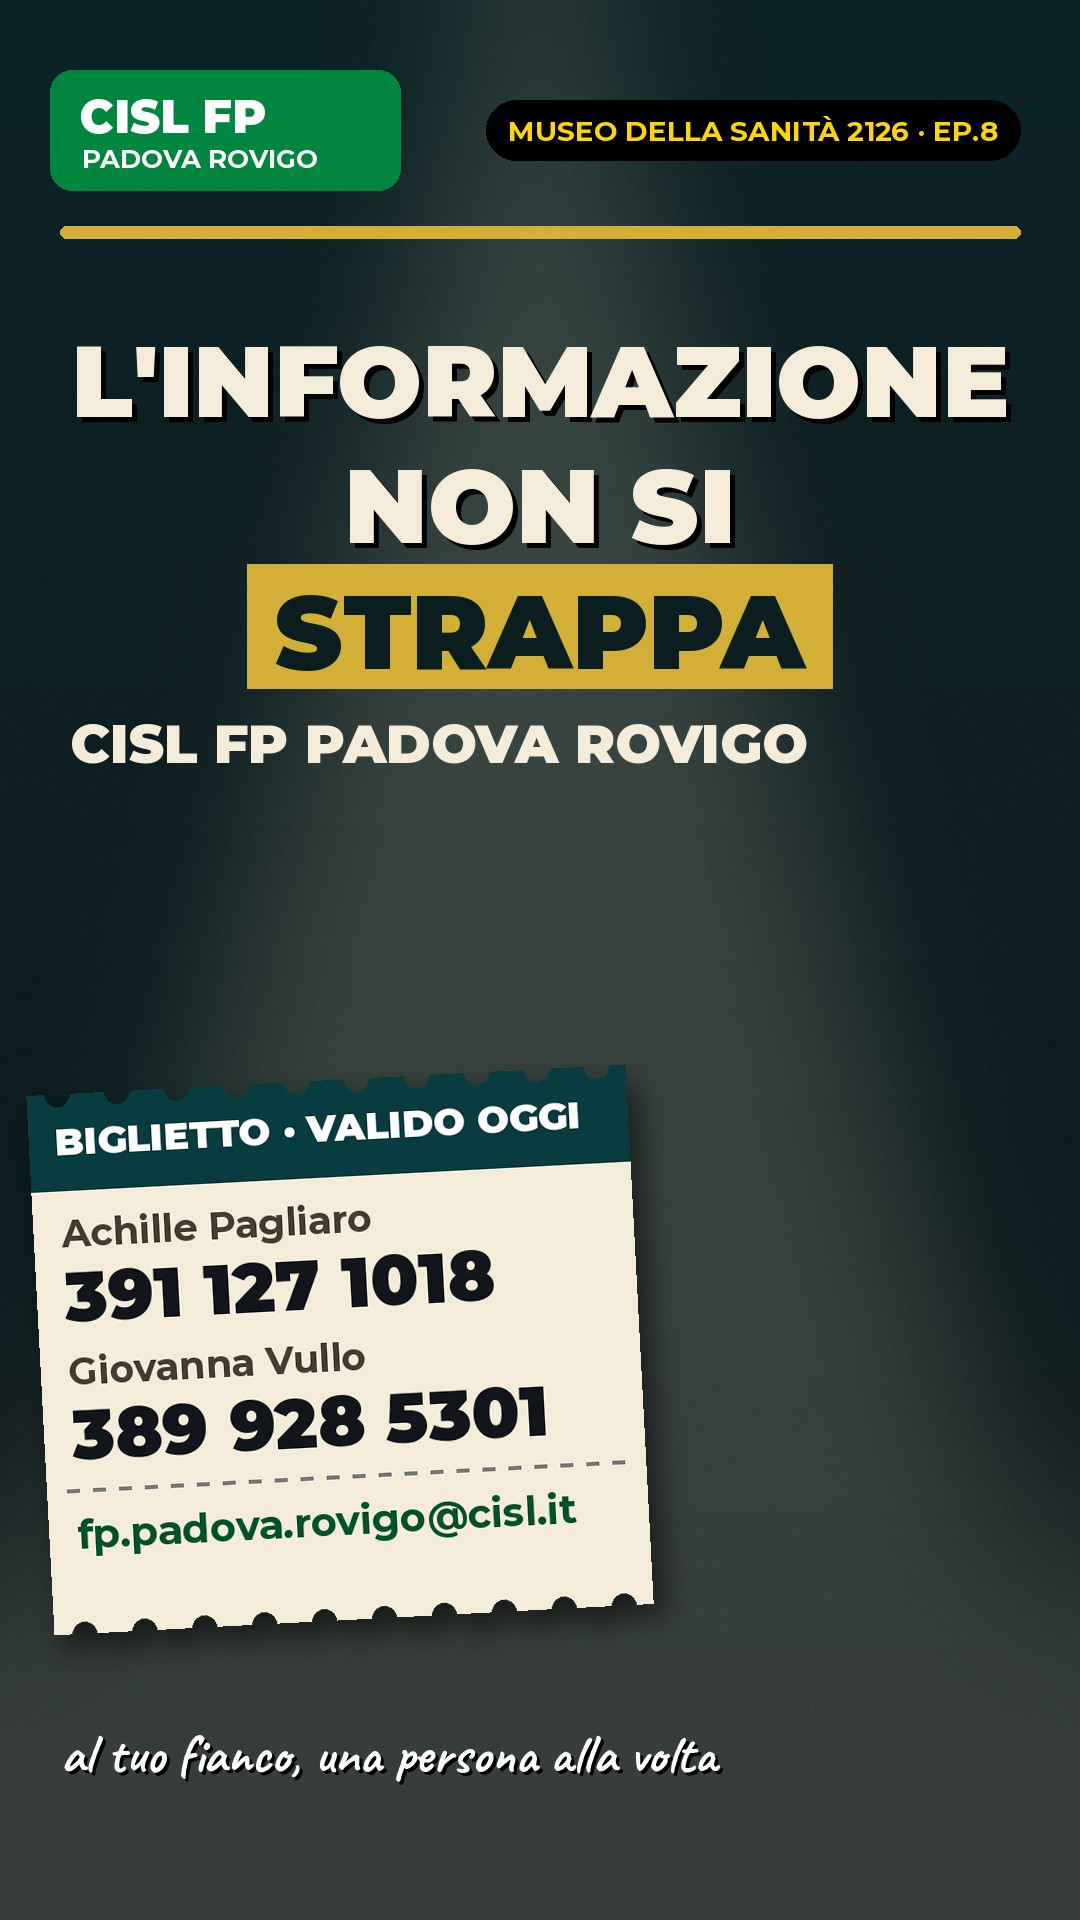
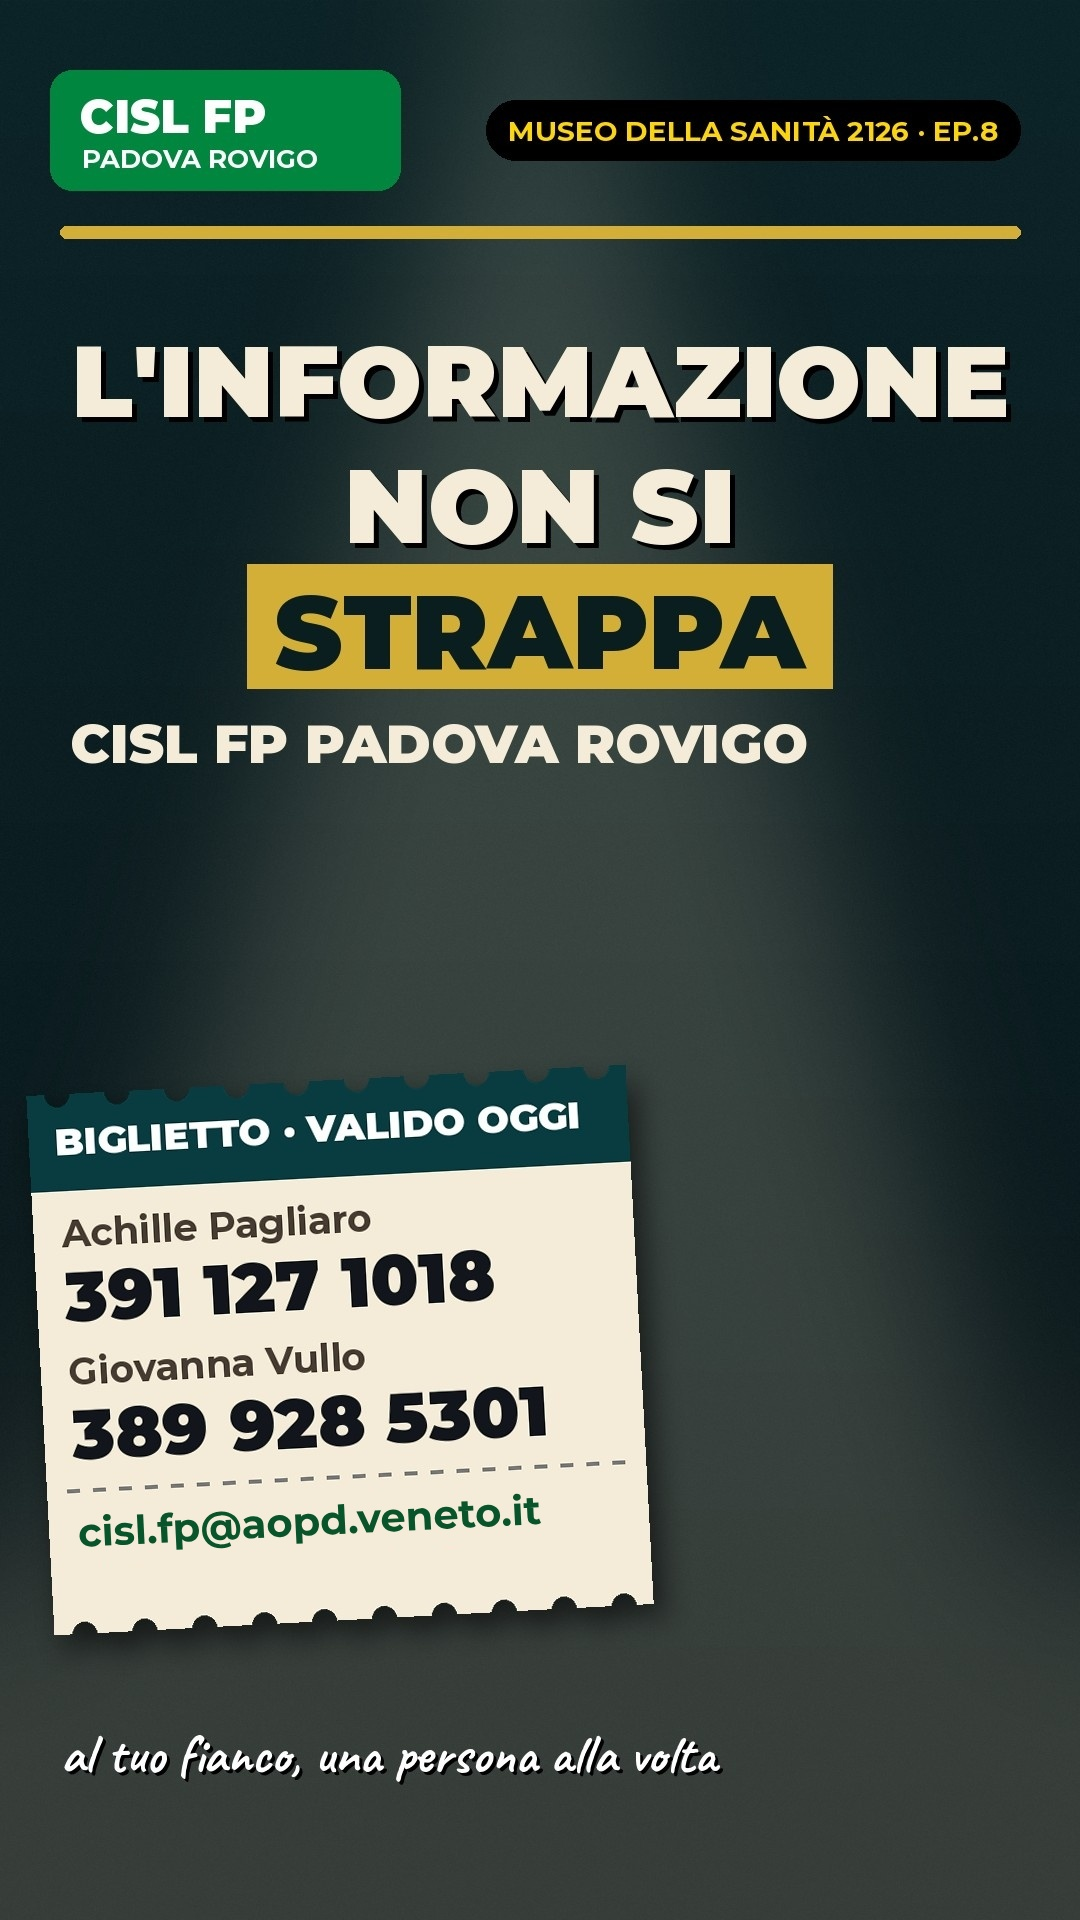
PDRO Trailer e Museo: mail AOUP cisl.fp@aopd.veneto.it su chiusure e testi dei post
Claude-Session: https://claude.ai/code/session_011VcYB1UyftPwdXssPuiLTX

diff --git a/progetti/pdro-trailer-02-il-rientro/TESTO_POST.md b/progetti/pdro-trailer-02-il-rientro/TESTO_POST.md
@@ -10,7 +10,7 @@ Aveva appena smontato dalla notte. Poi, nel silenzio del parcheggio, il telefono
 
 📞 Achille Pagliaro 391 127 1018
 📞 Giovanna Vullo 389 928 5301
-✉ fp.padova.rovigo@cisl.it
+✉ cisl.fp@aopd.veneto.it
 
 Trailer e recensioni di fantasia. I problemi, e le tutele, sono veri.
 

diff --git a/progetti/pdro-trailer-10-uniti-il-film/TESTO_POST.md b/progetti/pdro-trailer-10-uniti-il-film/TESTO_POST.md
@@ -10,7 +10,7 @@ Infermieri, OSS, tecnici, amministrativi, ostetriche. E in mezzo alla scena, un 
 
 📞 Achille Pagliaro 391 127 1018
 📞 Giovanna Vullo 389 928 5301
-✉ fp.padova.rovigo@cisl.it
+✉ cisl.fp@aopd.veneto.it
 
 Trailer e recensioni di fantasia. I problemi, e le tutele, sono veri.
 

diff --git a/progetti/pdro-trailer-03-per-un-pugno-di-ferie/TESTO_POST.md b/progetti/pdro-trailer-03-per-un-pugno-di-ferie/TESTO_POST.md
@@ -8,7 +8,7 @@ Agosto. Mezzogiorno. Un corridoio deserto. Un solo piano ferie. E due colleghi c
 
 📞 Achille Pagliaro 391 127 1018
 📞 Giovanna Vullo 389 928 5301
-✉ fp.padova.rovigo@cisl.it
+✉ cisl.fp@aopd.veneto.it
 
 Trailer e recensioni di fantasia. I problemi, e le tutele, sono veri.
 

diff --git a/progetti/pdro-trailer-04-odissea-nel-reparto/TESTO_POST.md b/progetti/pdro-trailer-04-odissea-nel-reparto/TESTO_POST.md
@@ -8,7 +8,7 @@ Primo giorno. Un pianeta sconosciuto. Sigle incomprensibili, portali che non si 
 
 📞 Achille Pagliaro 391 127 1018
 📞 Giovanna Vullo 389 928 5301
-✉ fp.padova.rovigo@cisl.it
+✉ cisl.fp@aopd.veneto.it
 
 Trailer e recensioni di fantasia. I problemi, e le tutele, sono veri.
 

diff --git a/progetti/pdro-trailer-05-io-te-e-il-part-time/TESTO_POST.md b/progetti/pdro-trailer-05-io-te-e-il-part-time/TESTO_POST.md
@@ -8,7 +8,7 @@ Lei fa i turni. Lui fa i turni. La recita è giovedì alle quattro. E nessuno de
 
 📞 Achille Pagliaro 391 127 1018
 📞 Giovanna Vullo 389 928 5301
-✉ fp.padova.rovigo@cisl.it
+✉ cisl.fp@aopd.veneto.it
 
 Trailer e recensioni di fantasia. I problemi, e le tutele, sono veri.
 

diff --git a/progetti/pdro-trailer-06-organico-zero/TESTO_POST.md b/progetti/pdro-trailer-06-organico-zero/TESTO_POST.md
@@ -8,7 +8,7 @@ Erano già in pochi. Poi una malattia. Poi un pensionamento. Poi qualcuno ha osa
 
 📞 Achille Pagliaro 391 127 1018
 📞 Giovanna Vullo 389 928 5301
-✉ fp.padova.rovigo@cisl.it
+✉ cisl.fp@aopd.veneto.it
 
 Trailer e recensioni di fantasia. I problemi, e le tutele, sono veri.
 

diff --git a/progetti/pdro-trailer-08-il-caso-della-contestazione/TESTO_POST.md b/progetti/pdro-trailer-08-il-caso-della-contestazione/TESTO_POST.md
@@ -8,7 +8,7 @@ Una raccomandata. Un'accusa. Pochi giorni per rispondere. E una domanda: ci vado
 
 📞 Achille Pagliaro 391 127 1018
 📞 Giovanna Vullo 389 928 5301
-✉ fp.padova.rovigo@cisl.it
+✉ cisl.fp@aopd.veneto.it
 
 Trailer e recensioni di fantasia. I problemi, e le tutele, sono veri.
 

diff --git a/progetti/pdro-trailer-09-il-delegato-nel-suo-habitat/TESTO_POST.md b/progetti/pdro-trailer-09-il-delegato-nel-suo-habitat/TESTO_POST.md
@@ -8,7 +8,7 @@ Non fate rumore. Tra le piante dell'atrio, un esemplare adulto di delegato sinda
 
 📞 Achille Pagliaro 391 127 1018
 📞 Giovanna Vullo 389 928 5301
-✉ fp.padova.rovigo@cisl.it
+✉ cisl.fp@aopd.veneto.it
 
 Trailer e recensioni di fantasia. I problemi, e le tutele, sono veri.
 

diff --git a/progetti/pdro-trailer-07-non-servono-superpoteri/TESTO_POST.md b/progetti/pdro-trailer-07-non-servono-superpoteri/TESTO_POST.md
@@ -10,7 +10,7 @@ Si chiamano delegati. E dietro ognuno c'è una squadra intera.
 
 📞 Achille Pagliaro 391 127 1018
 📞 Giovanna Vullo 389 928 5301
-✉ fp.padova.rovigo@cisl.it
+✉ cisl.fp@aopd.veneto.it
 
 Trailer e recensioni di fantasia. I problemi, e le tutele, sono veri.
 

diff --git a/progetti/pdro-museo-01-il-cartellino-delle-dodici-notti/TESTO_POST.md b/progetti/pdro-museo-01-il-cartellino-delle-dodici-notti/TESTO_POST.md
@@ -8,7 +8,7 @@ Il museo non esiste. Quel cartellino sì. E le regole su riposi e notti ci sono 
 
 📞 Achille Pagliaro 391 127 1018
 📞 Giovanna Vullo 389 928 5301
-✉ fp.padova.rovigo@cisl.it
+✉ cisl.fp@aopd.veneto.it
 
 Video ironico: il museo è inventato, i problemi no.
 

diff --git a/progetti/pdro-museo-04-la-chat-di-reparto/TESTO_POST.md b/progetti/pdro-museo-04-la-chat-di-reparto/TESTO_POST.md
@@ -8,7 +8,7 @@ Il riposo è riposo. La reperibilità è un'altra cosa: deve essere prevista e v
 
 📞 Achille Pagliaro 391 127 1018
 📞 Giovanna Vullo 389 928 5301
-✉ fp.padova.rovigo@cisl.it
+✉ cisl.fp@aopd.veneto.it
 
 Video ironico: il museo è inventato, i problemi no.
 

diff --git a/progetti/pdro-museo-06-la-divisa-e-i-minuti-invisibili/TESTO_POST.md b/progetti/pdro-museo-06-la-divisa-e-i-minuti-invisibili/TESTO_POST.md
@@ -8,7 +8,7 @@ Il contratto quei tempi li riconosce, e non si modificano in automatico: si cont
 
 📞 Achille Pagliaro 391 127 1018
 📞 Giovanna Vullo 389 928 5301
-✉ fp.padova.rovigo@cisl.it
+✉ cisl.fp@aopd.veneto.it
 
 Video ironico: il museo è inventato, i problemi no.
 
